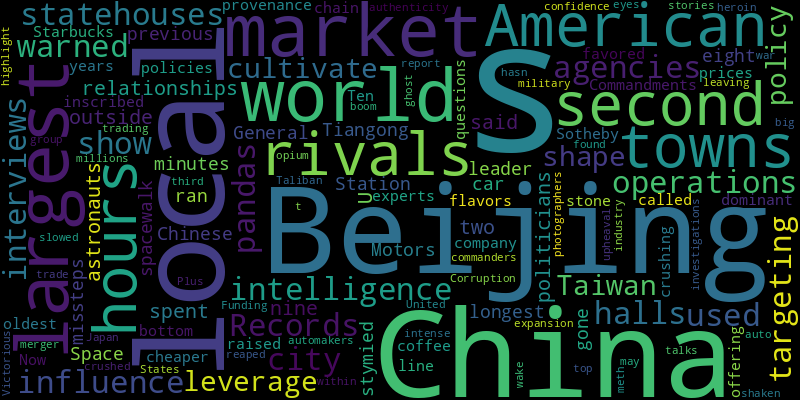
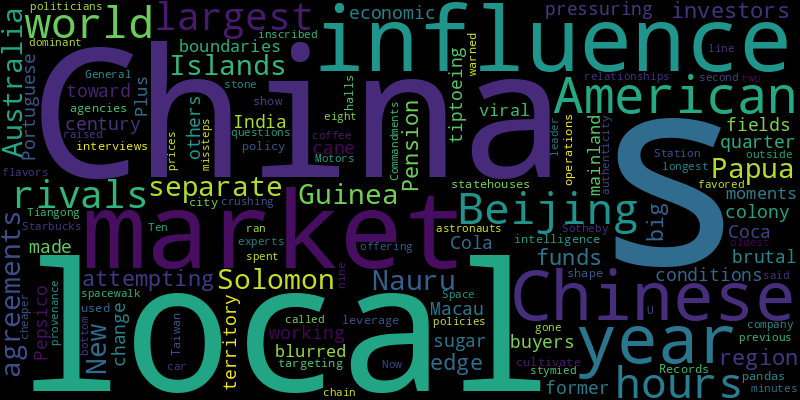
chore(bot): 🟩 auto commit

diff --git a/README.md b/README.md
@@ -2,41 +2,41 @@
 Auto RSS New York Times and Generate Word Cloud
 
 ## New York Times Global News
-* Syria’s new rulers say they will spare conscripts of Bashar al-Assad and pursue those who oversaw his regime’s abuses. Hundreds are lining up to learn which promise applies to them.
-* Funding its war against the United States, the Taliban reaped millions from boom towns trading opium, heroin and meth. Victorious, the group crushed the trade, leaving ghost towns in its wake.
-* The Russian prosecutor’s office said the suspect, a 29-year-old citizen of Uzbekistan, confessed to planting the bomb on the orders of Ukrainian agents.
-* If polls are correct, Olaf Scholz’s successor could be the 69-year-old leader of the Christian Democratic Union. He is offering to get the German economic engine humming again.
-* Ukraine’s forces are steadily losing ground on the battlefield. The assassination of a top general in Moscow won’t improve their war effort, analysts and Western officials say.
-* A Syrian Air flight from Damascus landed in Aleppo on Wednesday, as the transitional government tries to demonstrate its ability to run the war-shattered country.
-* For over three months, judges and lawyers have tried to grasp the true nature of Dominique Pelicot, who said he had invited dozens of strangers to join him in raping his drugged wife.
-* Corruption investigations may have shaken Beijing’s confidence in top commanders, but China’s military expansion hasn’t slowed, a report found.
-* U.S.-backed, Kurdish-led forces say they have come under fresh attack in several places by a Turkish-backed militia, even as Washington seeks a lasting cease-fire.
-* Police leaders waited too long — three days — to trigger a national mobilization to tackle the anti-immigrant violence that broke out in Britain this year, a report found.
+* Dozens of men who abused Gisèle Pelicot were convicted, including the man who invited them to do so: her husband of 50 years. She wanted the public trial to show rape victims they were not alone.
+* A visit to the Indian Ocean islands of Mayotte, which were struck by Cyclone Chido last weekend, reveals the devastating toll of the storm on an impoverished territory that belongs to France.
+* The ancient city, an early stronghold of opposition to Bashar al-Assad’s oppressive regime, was ravaged by a government crackdown. New York Times correspondents in Homs spoke to people who were reacting to his fall with smiles and tears.
+* Records and interviews show that Beijing has used pandas as leverage to shape policy on Taiwan and to cultivate relationships with local U.S. politicians.
+* With Germany and France both in political turmoil, the new administration of Donald J. Trump will begin at a time of instability for the continent.
+* Dominique Pelicot received a 20-year sentence after he admitted to drugging and raping his wife, Gisèle. Here’s how the events unfolded.
+* Medical workers at one of the last functioning hospitals in the north of the territory say the facility has come under heavy attack by Israel this week.
+* The Russian president, in a marathon annual news conference, said that he had not yet met with Bashar al-Assad, the ousted Syrian leader who fled to Moscow, but that he planned to.
+* But many European leaders say that with no sign that Russia is interested in peace, it is too early to discuss the presence of peacekeeping forces.
+* Israeli fighter jets have launched hundreds of airstrikes, while soldiers have seized a buffer zone and captured military posts in territory formerly under Syrian control.
 
 ![Global](./global.png)
 ## New York Times United States News
-* The official, Brian Williams, was appointed by the mayor last year to oversee public safety. He was immediately placed on administrative leave, the mayor’s office said.
-* The police in Madison, Wis., were working to establish a motive for the attack, which left a 14-year-old student and 42-year-old teacher dead and six others injured.
-* As Ryan W. Routh fled the scene, a highway was shut down and a car crash ensued. In charging him with attempted felony murder, the state defied federal prosecutors.
-* The hornet was discovered in a corner of Washington State. Five years later, a massive mobilization has eliminated the invasive species, at least for now.
-* President-elect Donald J. Trump’s denunciation of a bipartisan spending bill all but buried that deal while leaving unclear what form a new agreement could take.
-* Luigi Mangione, who is currently jailed in Pennsylvania, was charged in New York this week with first-degree murder in what prosecutors said was part of an “act of terrorism.”
-* The blinding light display in “National Lampoon’s Christmas Vacation” dazzled the Griswolds and nearly broke the power grid. What would it cost and how much power would it really need?
-* In an era of invective and distrust, two California candidates turned a tie over to chance.
-* The department had been trying to phase out the two plans in favor of a more generous new one that has been tied up by litigation since this summer.
-* Sotheby’s called the stone the world’s oldest inscribed with the Ten Commandments, but some experts had raised questions about its provenance and authenticity.
+* The panel overruled the trial judge, who had allowed Fani T. Willis to keep the case despite a romantic relationship that defendants said created a conflict of interest.
+* The mayor and labor unions touted the economic promise of the $1.3 billion project. Opponents said the arena would decimate the city’s storied Chinatown.
+* The virus has spread rapidly in California, the nation’s largest producer of milk. Farmers are frustrated that their herds are getting infected despite various precautions.
+* At the request of law enforcement officials, a judge ordered a man, who reportedly corresponded with the shooter about a second attack, to surrender his guns.
+* Politicians on both the left and the right have sought to change or limit what teachers can do inside classrooms. Teachers often ignore them.
+* Baltimore addiction programs draw patients with free housing while collecting millions. Some say one company offered little help.
+* The U.S. officials plan to look for signs of Austin Tice, a missing American journalist, as well as other U.S. citizens.
+* Thirty-eight Republican lawmakers resisted the president-elect’s command to support a spending and debt deal, showing that at least some of his followers are willing to buck his leadership in the right circumstances.
+* The man is charged with acting as an illegal foreign agent. The move is part of an effort by the authorities to prevent China from influencing American politicians.
+* Larry Allen Clay Jr., 58, of Fayetteville, W.Va., was also a sheriff’s deputy at the time of the crimes, which he tried to cover up, prosecutors said.
 
 ![US](./usnews.png)
 ## New York Times Asia News
+* In separate agreements with Nauru, Papua New Guinea and the Solomon Islands, Australia is attempting to edge out China’s influence in the region.
+* Pension funds and big investors are pressuring Coca-Cola, Pepsico and others over brutal working conditions in India’s cane fields. Some of the sugar buyers are tiptoeing toward change.
+* A quarter century after the former Portuguese colony was made a Chinese territory, Macau’s economic boundaries with the mainland are being blurred.
+* Plus, the year in viral moments.
 * American intelligence agencies have warned of influence operations targeting city halls and statehouses. But what’s in it for Beijing?
 * Records and interviews show that Beijing has used pandas as leverage to shape policy on Taiwan and to cultivate relationships with local U.S. politicians.
 * China said two of its astronauts spent nine hours outside the Tiangong Space Station. The longest previous spacewalk, by Americans, was eight hours and 56 minutes.
 * General Motors has gone from market leader to also-ran in the world’s largest car market, stymied by its own missteps and Chinese policies that favored its local rivals.
 * For years, Starbucks was the dominant coffee chain in China. Now rivals offering local flavors and cheaper prices are crushing the company’s bottom line in its second-largest market.
 * Sotheby’s called the stone the world’s oldest inscribed with the Ten Commandments, but some experts had raised questions about its provenance and authenticity.
-* Plus, the big stories of 2024 through our photographers’ eyes.
-* Corruption investigations may have shaken Beijing’s confidence in top commanders, but China’s military expansion hasn’t slowed, a report found.
-* Funding its war against the United States, the Taliban reaped millions from boom towns trading opium, heroin and meth. Victorious, the group crushed the trade, leaving ghost towns in its wake.
-* The merger talks between Japan’s second- and third-largest automakers highlight the intense upheaval within the world’s auto industry.
 
 ![Asian](./asian.png)

diff --git a/archive/2024-12-19.md b/archive/2024-12-19.md
@@ -1,0 +1,42 @@
+# NewsArchive
+Auto RSS New York Times and Generate Word Cloud
+
+## New York Times Global News
+* Syria’s new rulers say they will spare conscripts of Bashar al-Assad and pursue those who oversaw his regime’s abuses. Hundreds are lining up to learn which promise applies to them.
+* Funding its war against the United States, the Taliban reaped millions from boom towns trading opium, heroin and meth. Victorious, the group crushed the trade, leaving ghost towns in its wake.
+* The Russian prosecutor’s office said the suspect, a 29-year-old citizen of Uzbekistan, confessed to planting the bomb on the orders of Ukrainian agents.
+* If polls are correct, Olaf Scholz’s successor could be the 69-year-old leader of the Christian Democratic Union. He is offering to get the German economic engine humming again.
+* Ukraine’s forces are steadily losing ground on the battlefield. The assassination of a top general in Moscow won’t improve their war effort, analysts and Western officials say.
+* A Syrian Air flight from Damascus landed in Aleppo on Wednesday, as the transitional government tries to demonstrate its ability to run the war-shattered country.
+* For over three months, judges and lawyers have tried to grasp the true nature of Dominique Pelicot, who said he had invited dozens of strangers to join him in raping his drugged wife.
+* Corruption investigations may have shaken Beijing’s confidence in top commanders, but China’s military expansion hasn’t slowed, a report found.
+* U.S.-backed, Kurdish-led forces say they have come under fresh attack in several places by a Turkish-backed militia, even as Washington seeks a lasting cease-fire.
+* Police leaders waited too long — three days — to trigger a national mobilization to tackle the anti-immigrant violence that broke out in Britain this year, a report found.
+
+![Global](./global.png)
+## New York Times United States News
+* The official, Brian Williams, was appointed by the mayor last year to oversee public safety. He was immediately placed on administrative leave, the mayor’s office said.
+* The police in Madison, Wis., were working to establish a motive for the attack, which left a 14-year-old student and 42-year-old teacher dead and six others injured.
+* As Ryan W. Routh fled the scene, a highway was shut down and a car crash ensued. In charging him with attempted felony murder, the state defied federal prosecutors.
+* The hornet was discovered in a corner of Washington State. Five years later, a massive mobilization has eliminated the invasive species, at least for now.
+* President-elect Donald J. Trump’s denunciation of a bipartisan spending bill all but buried that deal while leaving unclear what form a new agreement could take.
+* Luigi Mangione, who is currently jailed in Pennsylvania, was charged in New York this week with first-degree murder in what prosecutors said was part of an “act of terrorism.”
+* The blinding light display in “National Lampoon’s Christmas Vacation” dazzled the Griswolds and nearly broke the power grid. What would it cost and how much power would it really need?
+* In an era of invective and distrust, two California candidates turned a tie over to chance.
+* The department had been trying to phase out the two plans in favor of a more generous new one that has been tied up by litigation since this summer.
+* Sotheby’s called the stone the world’s oldest inscribed with the Ten Commandments, but some experts had raised questions about its provenance and authenticity.
+
+![US](./usnews.png)
+## New York Times Asia News
+* American intelligence agencies have warned of influence operations targeting city halls and statehouses. But what’s in it for Beijing?
+* Records and interviews show that Beijing has used pandas as leverage to shape policy on Taiwan and to cultivate relationships with local U.S. politicians.
+* China said two of its astronauts spent nine hours outside the Tiangong Space Station. The longest previous spacewalk, by Americans, was eight hours and 56 minutes.
+* General Motors has gone from market leader to also-ran in the world’s largest car market, stymied by its own missteps and Chinese policies that favored its local rivals.
+* For years, Starbucks was the dominant coffee chain in China. Now rivals offering local flavors and cheaper prices are crushing the company’s bottom line in its second-largest market.
+* Sotheby’s called the stone the world’s oldest inscribed with the Ten Commandments, but some experts had raised questions about its provenance and authenticity.
+* Plus, the big stories of 2024 through our photographers’ eyes.
+* Corruption investigations may have shaken Beijing’s confidence in top commanders, but China’s military expansion hasn’t slowed, a report found.
+* Funding its war against the United States, the Taliban reaped millions from boom towns trading opium, heroin and meth. Victorious, the group crushed the trade, leaving ghost towns in its wake.
+* The merger talks between Japan’s second- and third-largest automakers highlight the intense upheaval within the world’s auto industry.
+
+![Asian](./asian.png)
